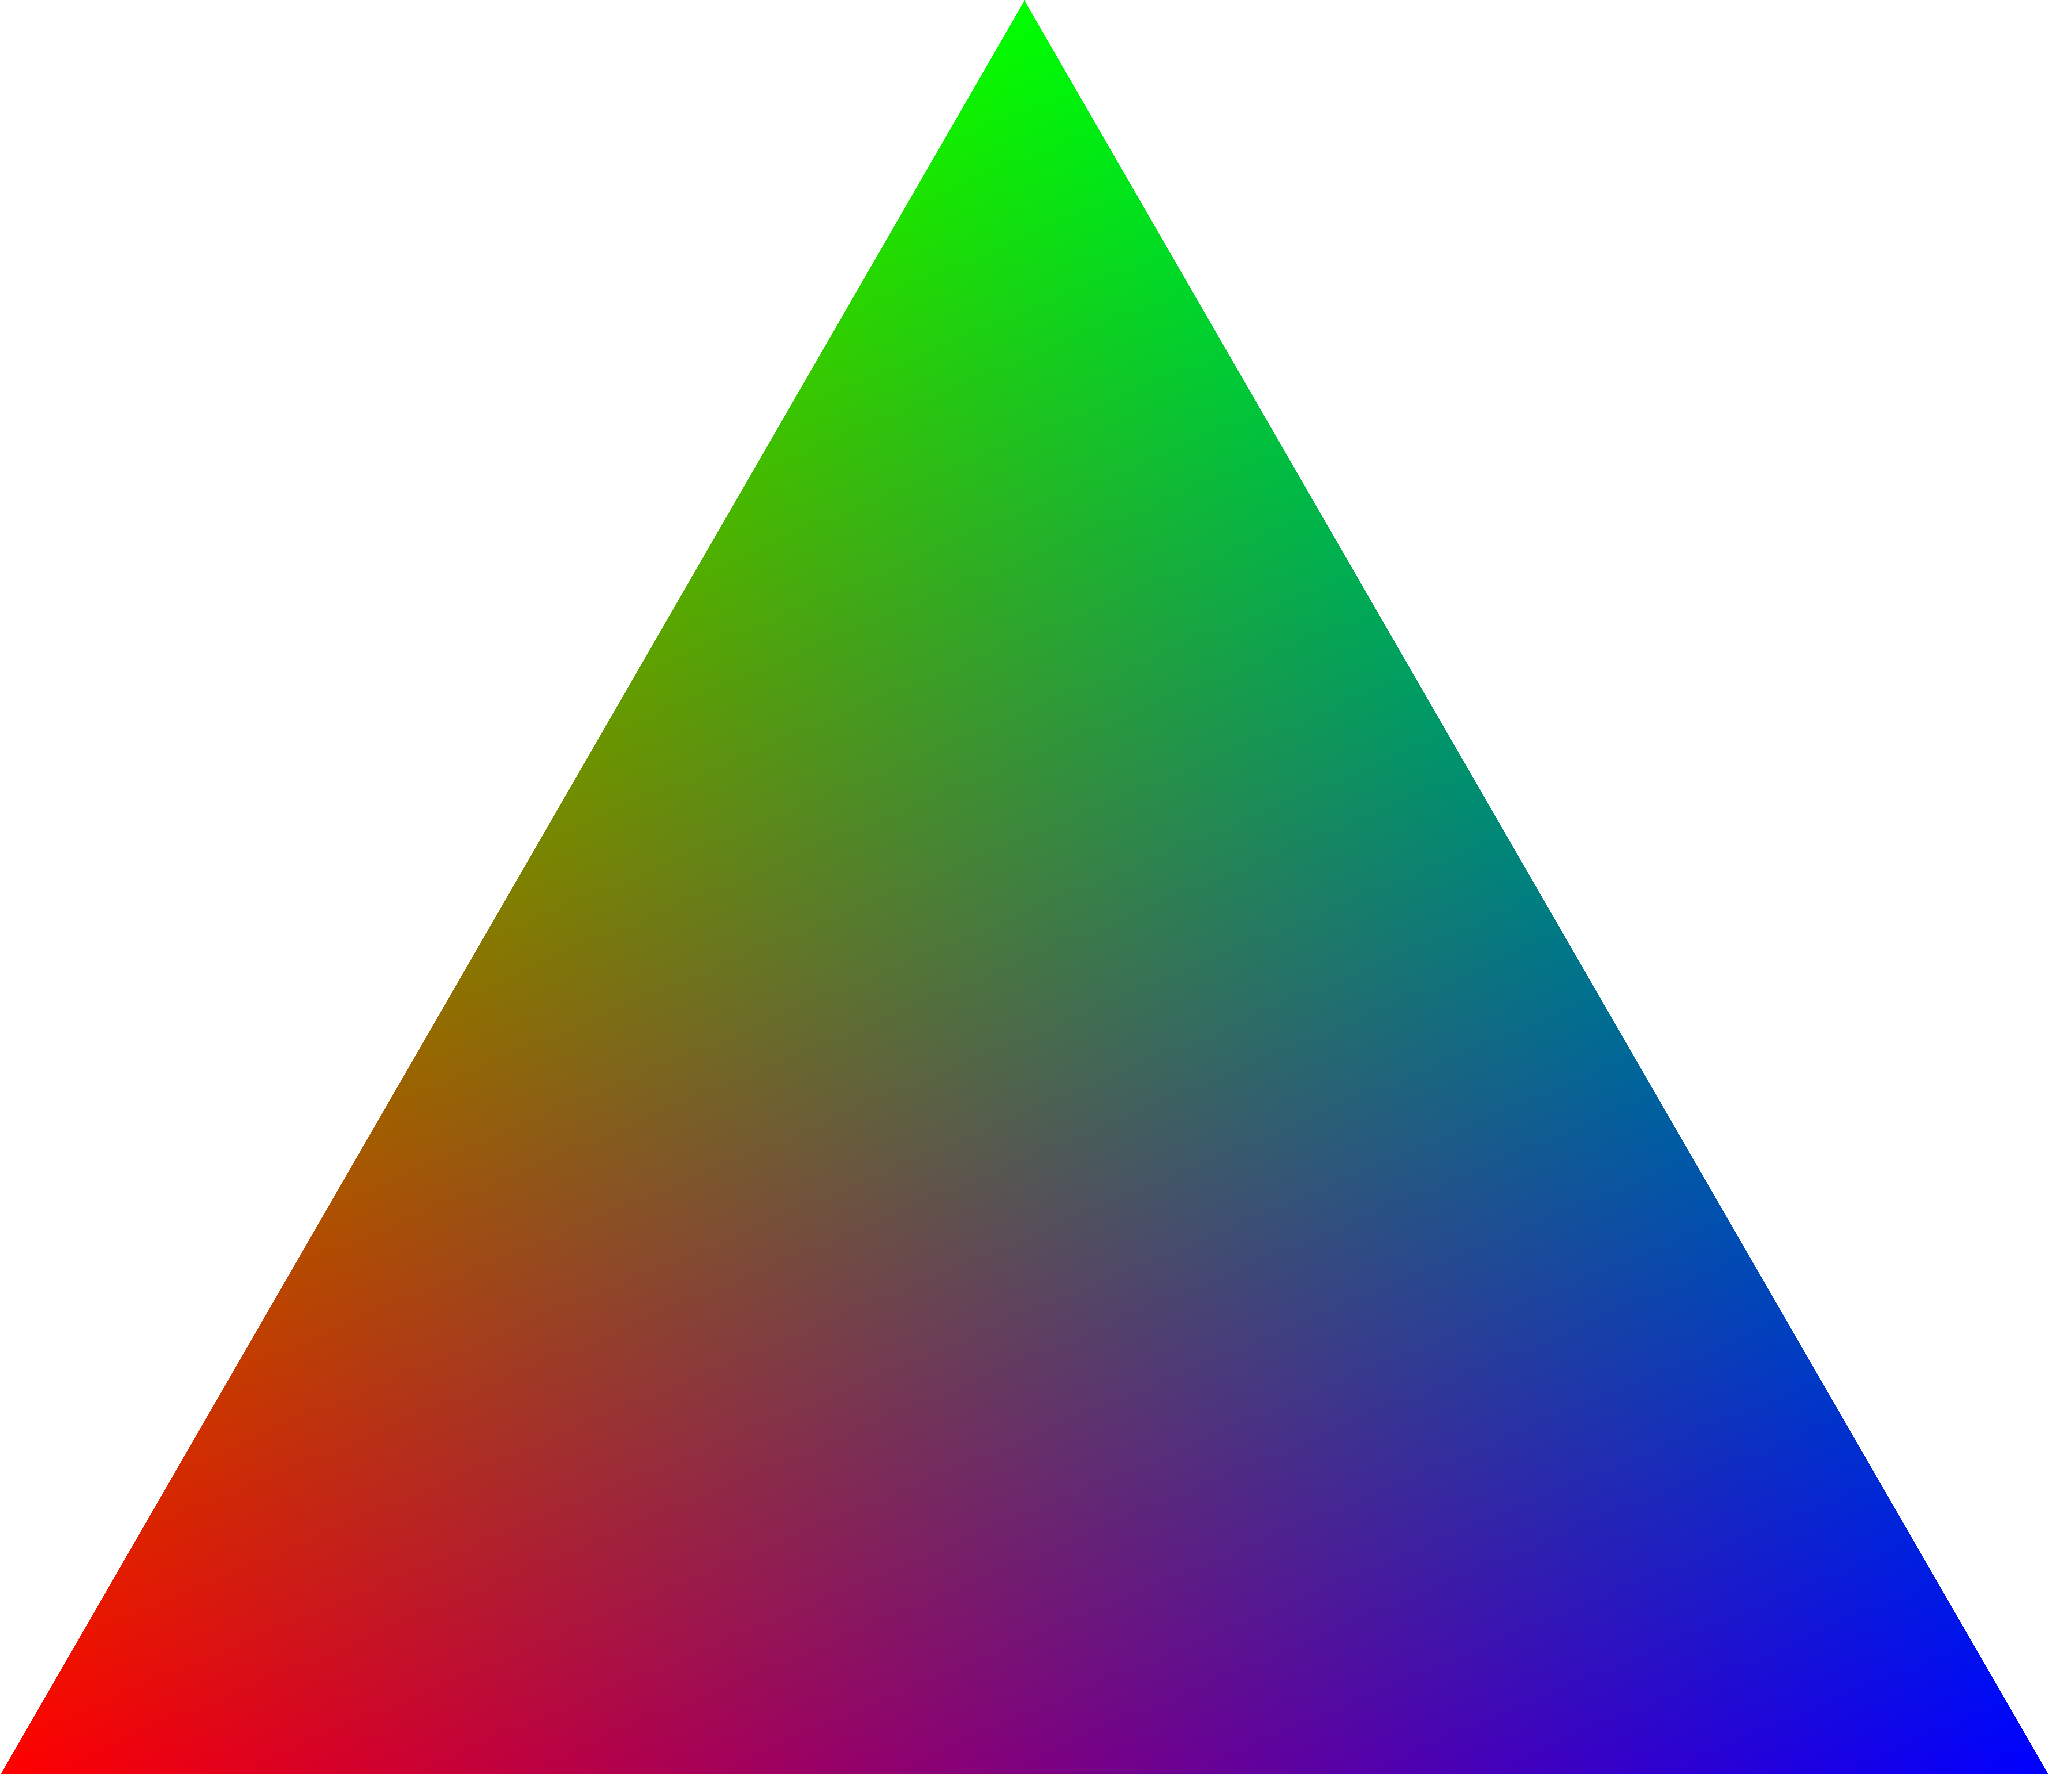
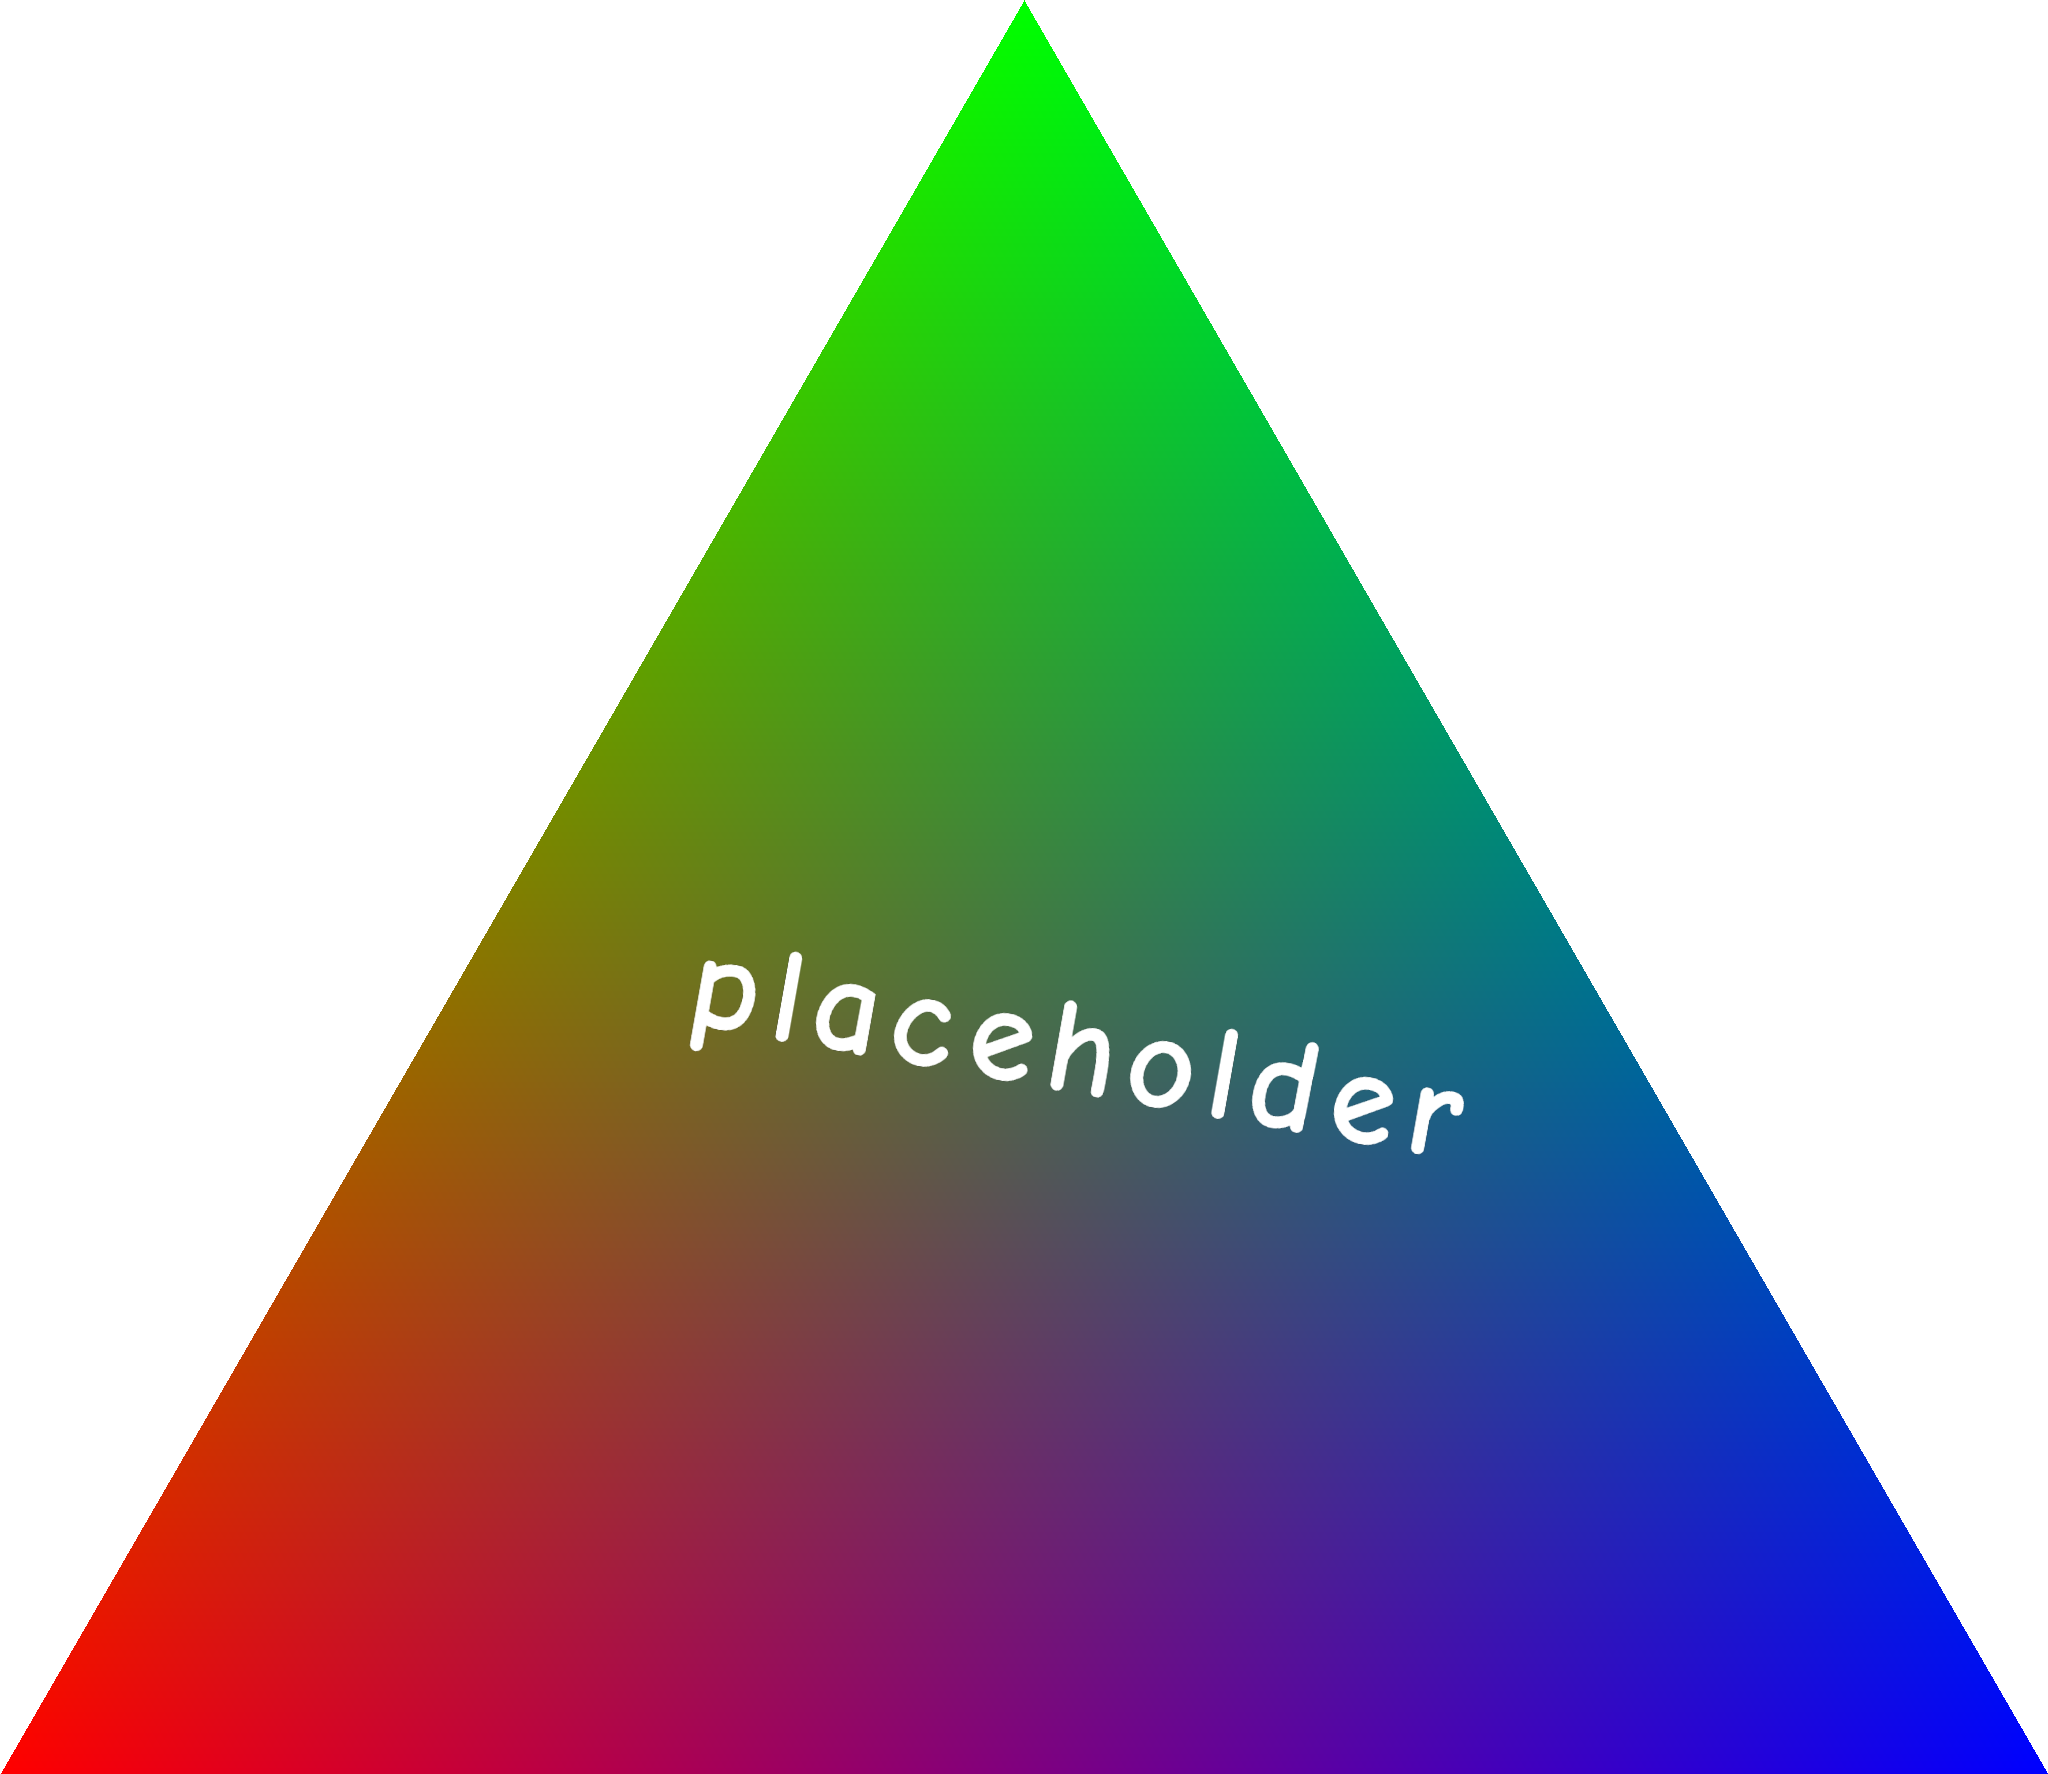
Site

Changed region(s): [[0.3125, 0.5271, 0.7188, 0.6511]]

diff --git a/get-nimbleos/index.html b/get-nimbleos/index.html
@@ -6,7 +6,7 @@
   <h1>Here are the lastest releases:</h1>
   <details>
   <summary>Graffite</summary>
-  <a href="downloads/NAO_ME_ABAIXE" download="NAO_ME_ABAIXE">NimbleOS 1.0 Testing</a>
+  <a href="downloads/PLACEHOLDER" download="PLACEHOLDER">NimbleOS 1.0 Testing</a>
 </details>
  </body>
 </html>
